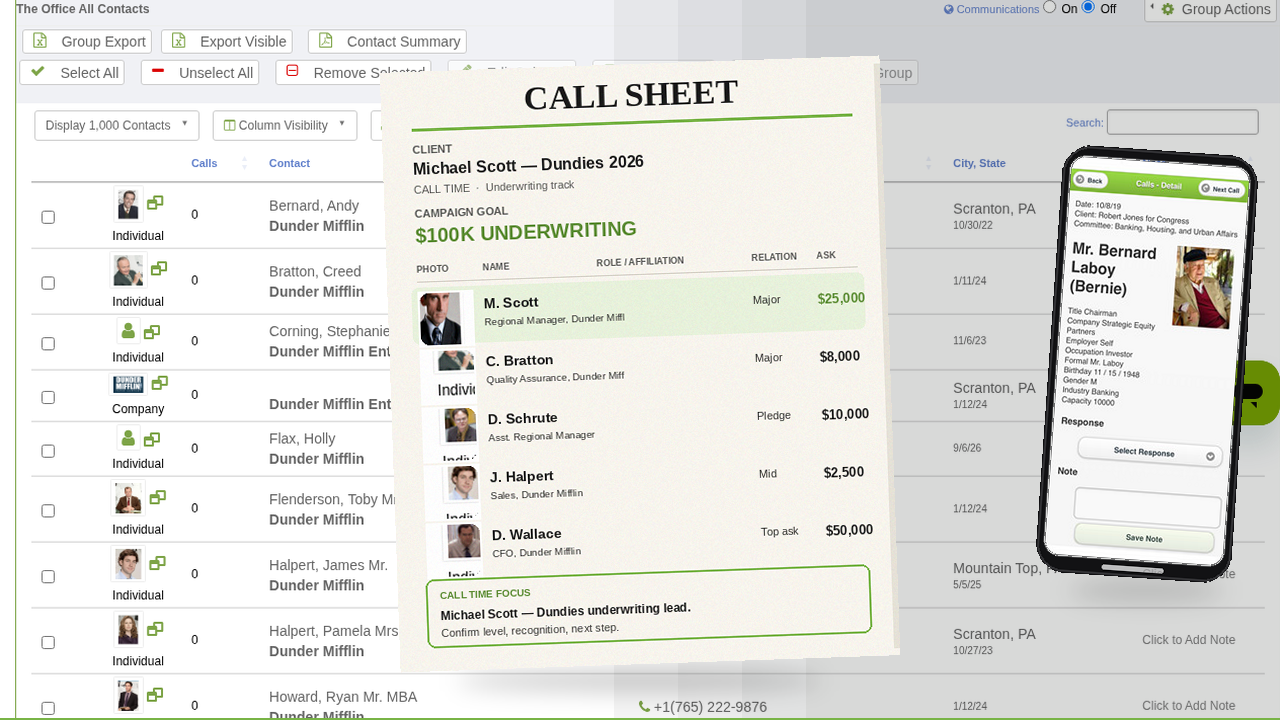
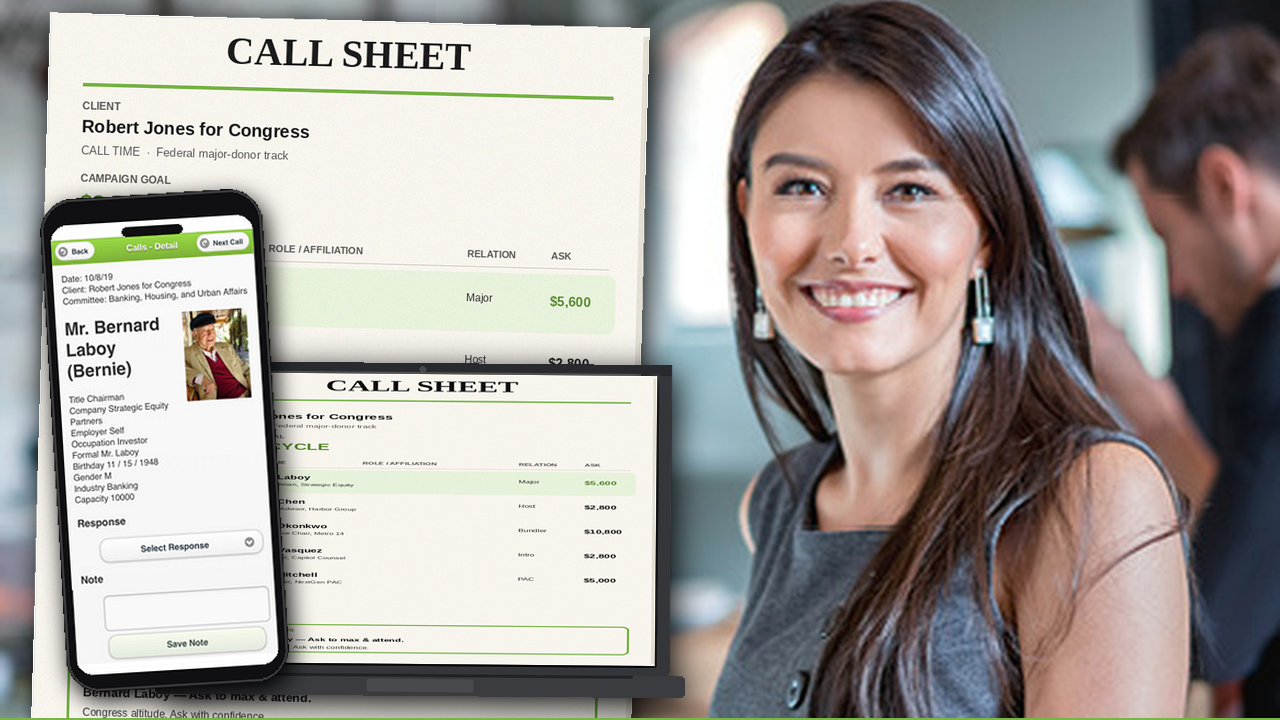
Capabilities Calls: ship latest face-clear composite; commit capability images

diff --git a/capabilities/index.html b/capabilities/index.html
@@ -6,7 +6,7 @@
 <title>Capabilities | iDONATEpro</title>
 <meta name="description" content="Run Campaigns and Clients top to Bottom from the same Database — Contacts, Lists, Calls, Events, Communications, and Data in one Donor book.">
 <link rel="icon" href="/favicon.ico">
-<link rel="stylesheet" href="/css/site.css?v=189">
+<link rel="stylesheet" href="/css/site.css?v=190">
 </head>
 <body>
 <header class="site-header">
@@ -212,7 +212,7 @@
   <div class="wrap capability-grid">
         <div class="cap-media">
       <figure class="cap-shot">
-        <img src="/img/capabilities/calls.png?v=8" alt="Calls & Call Time story graphic" width="1280" height="720" loading="lazy">
+        <img src="/img/capabilities/calls.png?v=9" alt="Calls & Call Time story graphic" width="1280" height="720" loading="lazy">
       </figure>
     </div>
 <div class="capability-copy">

diff --git a/index.html b/index.html
@@ -6,7 +6,7 @@
 <title>iDONATEpro | Political &amp; Non Profit CRM Database Software</title>
 <meta name="description" content="Political &amp; Non Profit CRM Database Software. Designed by Fundraisers for Fundraisers — Unlimited Contacts, Campaigns, Calls, Events, and Data in one Donor Database.">
 <link rel="icon" href="/favicon.ico">
-<link rel="stylesheet" href="/css/site.css?v=189">
+<link rel="stylesheet" href="/css/site.css?v=190">
 </head>
 <body>
 <header class="site-header">

diff --git a/icons/index.html b/icons/index.html
@@ -7,7 +7,7 @@
 <meta name="robots" content="noindex, nofollow">
 <meta name="description" content="Locked iDp icon set, five finishes.">
 <link rel="icon" href="/favicon.ico">
-<link rel="stylesheet" href="/css/site.css?v=189">
+<link rel="stylesheet" href="/css/site.css?v=190">
 <style>
 section.compare-board { padding: 3.25rem 0 5rem; background: var(--bg); }
 section.compare-board .wrap-board { width: min(72rem, calc(100% - 3rem)); margin-inline: auto; }

diff --git a/who-its-for/index.html b/who-its-for/index.html
@@ -6,7 +6,7 @@
 <title>Who It's For | iDONATEpro</title>
 <meta name="description" content="iDONATEpro is built for Political Fundraisers, Campaigns & Committees, and Regional Parties & 501(c) Organizations. See who you become with a Donor book that travels with you.">
 <link rel="icon" href="/favicon.ico">
-<link rel="stylesheet" href="/css/site.css?v=189">
+<link rel="stylesheet" href="/css/site.css?v=190">
 </head>
 <body>
 <header class="site-header">

diff --git a/terms-and-conditions/index.html b/terms-and-conditions/index.html
@@ -6,7 +6,7 @@
 <title>Terms & Conditions | iDONATEpro</title>
 <meta name="description" content="CRM software for political fundraisers, campaigns, committees, regional parties, and 501(c) organizations. Book a free demo or start a 14-day trial.">
 <link rel="icon" href="/favicon.ico">
-<link rel="stylesheet" href="/css/site.css?v=189">
+<link rel="stylesheet" href="/css/site.css?v=190">
 </head>
 <body>
 <header class="site-header">

diff --git a/referral-program/index.html b/referral-program/index.html
@@ -6,7 +6,7 @@
 <title>Referral Program | iDONATEpro</title>
 <meta name="description" content="CRM software for Political Fundraisers, campaigns, committees, Regional Parties, and 501(c) Organizations. Book a free demo or start a 14-day trial.">
 <link rel="icon" href="/favicon.ico">
-<link rel="stylesheet" href="/css/site.css?v=189">
+<link rel="stylesheet" href="/css/site.css?v=190">
 </head>
 <body>
 <header class="site-header">

diff --git a/privacy-policy/index.html b/privacy-policy/index.html
@@ -6,7 +6,7 @@
 <title>Privacy Policy | iDONATEpro</title>
 <meta name="description" content="CRM software for political fundraisers, campaigns, committees, regional parties, and 501(c) organizations. Book a free demo or start a 14-day trial.">
 <link rel="icon" href="/favicon.ico">
-<link rel="stylesheet" href="/css/site.css?v=189">
+<link rel="stylesheet" href="/css/site.css?v=190">
 </head>
 <body>
 <header class="site-header">

diff --git a/testimonials/index.html b/testimonials/index.html
@@ -6,7 +6,7 @@
 <title>Testimonials | iDONATEpro</title>
 <meta name="description" content="CRM software for Political Fundraisers, campaigns, committees, Regional Parties, and 501(c) Organizations. Book a free demo or start a 14-day trial.">
 <link rel="icon" href="/favicon.ico">
-<link rel="stylesheet" href="/css/site.css?v=189">
+<link rel="stylesheet" href="/css/site.css?v=190">
 </head>
 <body>
 <header class="site-header">

diff --git a/security/index.html b/security/index.html
@@ -6,7 +6,7 @@
 <title>Security | iDONATEpro</title>
 <meta name="description" content="CRM software for political fundraisers, campaigns, committees, regional parties, and 501(c) organizations. Book a free demo or start a 14-day trial.">
 <link rel="icon" href="/favicon.ico">
-<link rel="stylesheet" href="/css/site.css?v=189">
+<link rel="stylesheet" href="/css/site.css?v=190">
 </head>
 <body>
 <header class="site-header">

diff --git a/pricing/index.html b/pricing/index.html
@@ -6,7 +6,7 @@
 <title>Pricing | iDONATEpro</title>
 <meta name="description" content="CRM software for Political Fundraisers, campaigns, committees, Regional Parties, and 501(c) Organizations. Book a free demo or start a 14-day trial.">
 <link rel="icon" href="/favicon.ico">
-<link rel="stylesheet" href="/css/site.css?v=189">
+<link rel="stylesheet" href="/css/site.css?v=190">
 </head>
 <body>
 <header class="site-header">

diff --git a/signup/index.html b/signup/index.html
@@ -6,7 +6,7 @@
 <title>Sign Up | iDONATEpro</title>
 <meta name="description" content="CRM software for Political Fundraisers, campaigns, committees, Regional Parties, and 501(c) Organizations. Book a free demo or start a 14-day trial.">
 <link rel="icon" href="/favicon.ico">
-<link rel="stylesheet" href="/css/site.css?v=189">
+<link rel="stylesheet" href="/css/site.css?v=190">
 </head>
 <body>
 <header class="site-header">

diff --git a/about/index.html b/about/index.html
@@ -6,7 +6,7 @@
 <title>About | iDONATEpro</title>
 <meta name="description" content="CRM software for Political Fundraisers, campaigns, committees, Regional Parties, and 501(c) Organizations. Book a free demo or start a 14-day trial.">
 <link rel="icon" href="/favicon.ico">
-<link rel="stylesheet" href="/css/site.css?v=189">
+<link rel="stylesheet" href="/css/site.css?v=190">
 </head>
 <body>
 <header class="site-header">
